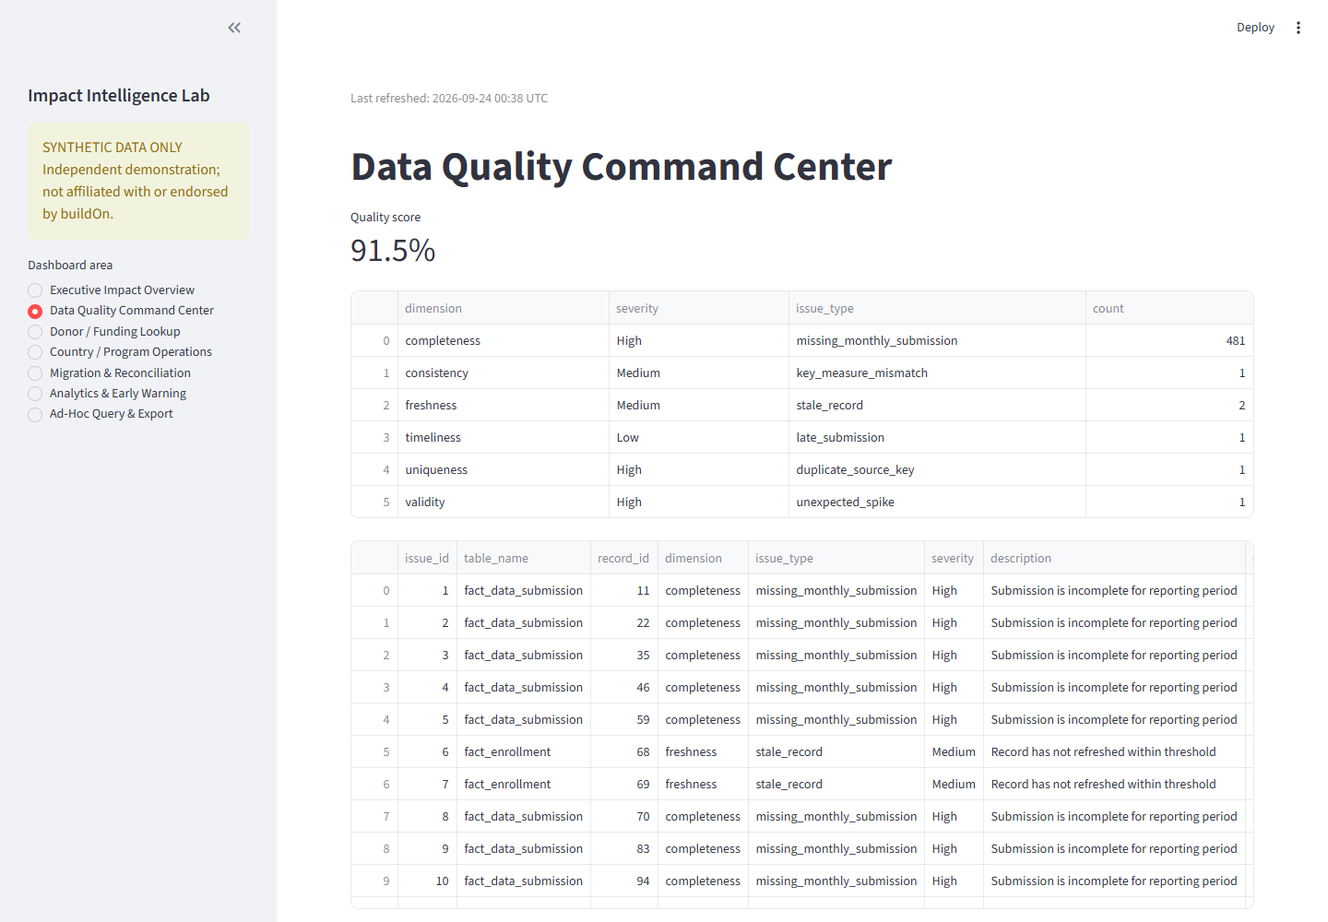
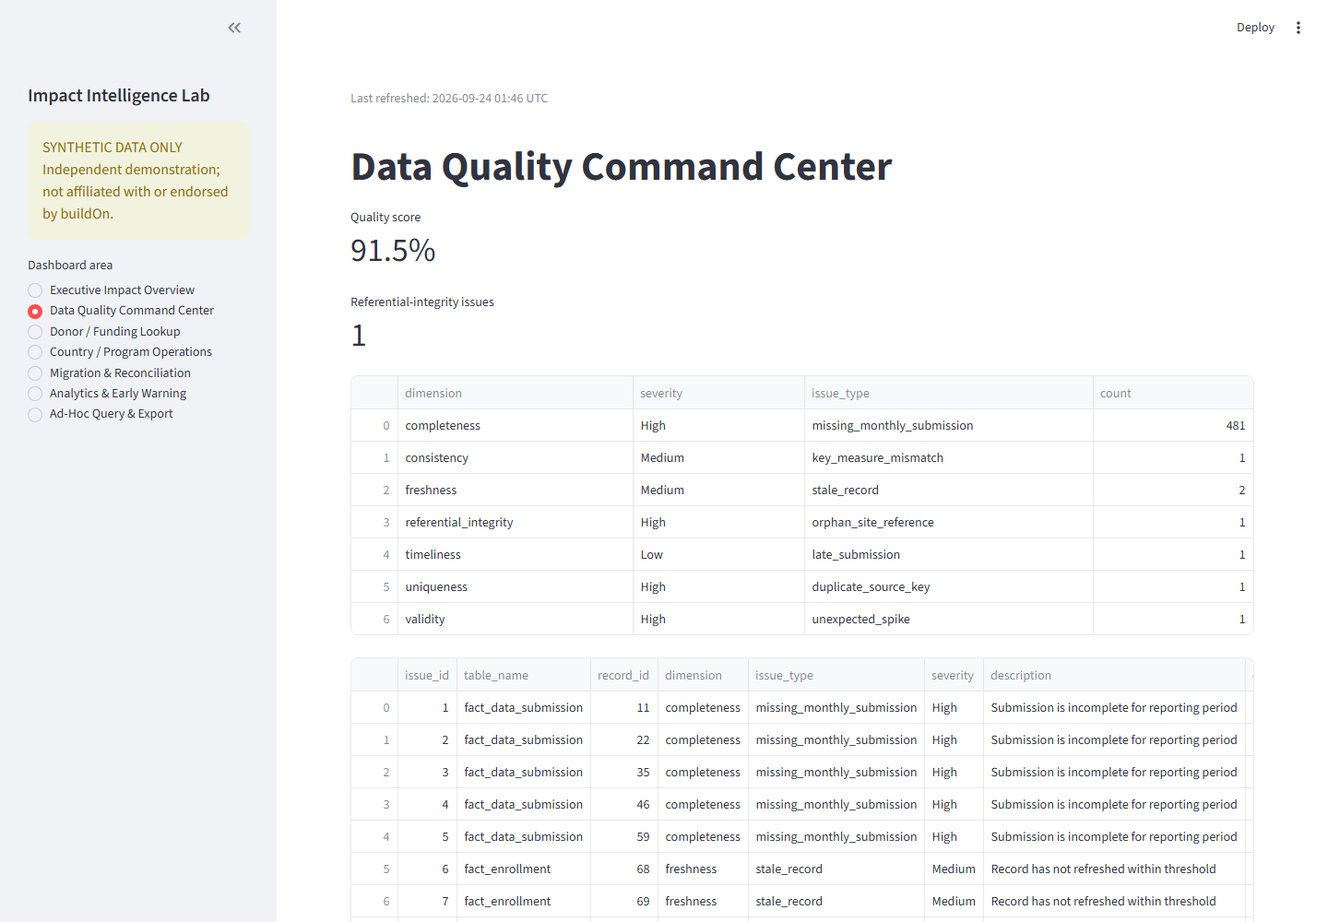
feat: add bounded forecast and quality evidence

diff --git a/app/dashboard.py b/app/dashboard.py
@@ -3,7 +3,7 @@ from pathlib import Path
 sys.path.insert(0,str(Path(__file__).resolve().parents[1]))
 from database.schema import engine
 from sqlalchemy import text
-from analytics.methods import trend
+from analytics.methods import trend,bounded_forecast
 st.set_page_config(page_title='Impact Intelligence Lab',page_icon='◎',layout='wide')
 st.sidebar.markdown('## Impact Intelligence Lab')
 st.sidebar.warning('SYNTHETIC DATA ONLY\nIndependent demonstration; not affiliated with or endorsed by buildOn.')
@@ -13,15 +13,17 @@ st.caption('Last refreshed: '+pd.Timestamp.utcnow().strftime('%Y-%m-%d %H:%M UTC
 if page=='Executive Impact Overview':
  st.title('Executive Impact Overview'); e=q('select * from fact_enrollment'); i=q('select * from fact_data_quality_issue'); a,b,c,d=st.columns(4); a.metric('Enrollment records',f'{len(e):,}'); b.metric('Enrolled participants',f'{e.enrolled.sum():,}'); c.metric('Quality issues',f'{len(i):,}'); d.metric('Latest period',q('select max(period_label) x from dim_reporting_period').iloc[0,0]); t=trend(e); st.plotly_chart(px.line(t,x='period_id',y='rolling_3',markers=True,title='3-period rolling enrollment trend'),use_container_width=True); st.info('Diagnostic indicator only: review movement alongside freshness and issue rates; no causal claim is made.')
 elif page=='Data Quality Command Center':
- st.title('Data Quality Command Center'); i=q('select * from fact_data_quality_issue'); st.metric('Quality score',f'{max(0,100-len(i)/5760*100):.1f}%'); st.dataframe(i.groupby(['dimension','severity','issue_type']).size().reset_index(name='count'),use_container_width=True); st.dataframe(i.head(100),use_container_width=True)
+ st.title('Data Quality Command Center'); i=q('select * from fact_data_quality_issue'); st.metric('Quality score',f'{max(0,100-len(i)/5760*100):.1f}%'); ref=i[i.dimension=='referential_integrity']; st.metric('Referential-integrity issues',len(ref)); st.dataframe(i.groupby(['dimension','severity','issue_type']).size().reset_index(name='count'),use_container_width=True); st.dataframe(i.head(100),use_container_width=True)
 elif page=='Donor / Funding Lookup':
- st.title('Donor / Funding Program Lookup'); countries=q('select country_code,country_name from dim_country'); programs=q('select program_id,program_name from dim_program'); cc=st.selectbox('Country',['All']+countries.country_code.tolist()); pp=st.selectbox('Program',['All']+programs.program_id.astype(str).tolist()); sql='select c.country_name,p.program_name,sum(e.enrolled) enrolled,avg(o.completion_rate) completion_rate,sum(cast(sub.is_stale as integer)) stale from fact_enrollment e join dim_site s on s.site_id=e.site_id join dim_country c on c.country_code=s.country_code join dim_program p on p.program_id=s.program_id join fact_program_outcomes o on o.record_id=e.record_id join fact_data_submission sub on sub.record_id=e.record_id where 1=1'; params={}; sql += '' if cc=='All' else ' and c.country_code=:country'; params['country']=cc if cc!='All' else None; sql += '' if pp=='All' else ' and p.program_id=:program_id'; params['program_id']=int(pp) if pp!='All' else None; params={k:v for k,v in params.items() if v is not None}; out=q(sql+' group by c.country_name,p.program_name',params); st.dataframe(out,use_container_width=True); st.download_button('Download lookup CSV',out.to_csv(index=False),'funding_lookup.csv')
+ st.title('Donor / Funding Program Lookup'); countries=q('select country_code,country_name from dim_country'); programs=q('select program_id,program_name from dim_program'); cc=st.selectbox('Country',['All']+countries.country_code.tolist()); pp=st.selectbox('Program',['All']+programs.program_id.astype(str).tolist()); sql='select c.country_name,p.program_name,sum(e.enrolled) enrolled,avg(o.completion_rate) completion_rate,sum(case when sub.is_stale then 1 else 0 end) stale from fact_enrollment e join dim_site s on s.site_id=e.site_id join dim_country c on c.country_code=s.country_code join dim_program p on p.program_id=s.program_id join fact_program_outcomes o on o.record_id=e.record_id join fact_data_submission sub on sub.record_id=e.record_id where 1=1'; params={}; sql += '' if cc=='All' else ' and c.country_code=:country'; params['country']=cc if cc!='All' else None; sql += '' if pp=='All' else ' and p.program_id=:program_id'; params['program_id']=int(pp) if pp!='All' else None; params={k:v for k,v in params.items() if v is not None}; out=q(sql+' group by c.country_name,p.program_name',params); st.dataframe(out,use_container_width=True); st.download_button('Download lookup CSV',out.to_csv(index=False),'funding_lookup.csv')
 elif page=='Country / Program Operations':
- st.title('Country / Program Operations'); x=q('select c.country_name,p.program_name,sum(e.enrolled) enrolled,avg(cast(sub.is_complete as integer)) completeness from fact_enrollment e join dim_site s on s.site_id=e.site_id join dim_country c on c.country_code=s.country_code join dim_program p on p.program_id=s.program_id join fact_data_submission sub on sub.record_id=e.record_id group by c.country_name,p.program_name'); st.dataframe(x,use_container_width=True); st.plotly_chart(px.bar(x,x='country_name',y='enrolled',color='program_name',title='Enrollment by country and program'),use_container_width=True)
+ st.title('Country / Program Operations'); x=q('select c.country_name,p.program_name,sum(e.enrolled) enrolled,avg(case when sub.is_complete then 1.0 else 0.0 end) completeness from fact_enrollment e join dim_site s on s.site_id=e.site_id join dim_country c on c.country_code=s.country_code join dim_program p on p.program_id=s.program_id join fact_data_submission sub on sub.record_id=e.record_id group by c.country_name,p.program_name'); st.dataframe(x,use_container_width=True); st.plotly_chart(px.bar(x,x='country_name',y='enrolled',color='program_name',title='Enrollment by country and program'),use_container_width=True)
 elif page=='Migration & Reconciliation':
  st.title('Migration & Reconciliation'); x=q('select match_status,count(*) rows from fact_migration_reconciliation group by match_status'); total=x['rows'].sum(); matched=x.loc[x.match_status=='matched','rows'].sum(); st.metric('Migration readiness score',f'{matched/max(total,1)*100:.1f}%'); st.plotly_chart(px.pie(x,names='match_status',values='rows',title='Migration readiness'),use_container_width=True); st.dataframe(q("select * from fact_migration_reconciliation where match_status<>'matched'"),use_container_width=True)
 elif page=='Analytics & Early Warning':
- st.title('Analytics & Early Warning'); e=q('select period_id,enrolled from fact_enrollment'); t=trend(e); st.plotly_chart(px.line(t,x='period_id',y=['enrolled','rolling_3'],title='Trend and rolling average'),use_container_width=True); st.warning('Diagnostic indicator: sustained movement should be reviewed with data-quality context before operational action.'); st.dataframe(t.tail(10),use_container_width=True)
+ st.title('Analytics & Early Warning'); e=q('select period_id,enrolled from fact_enrollment'); t=trend(e); st.plotly_chart(px.line(t,x='period_id',y=['enrolled','rolling_3'],title='Trend and rolling average'),use_container_width=True); fc=bounded_forecast(e); st.subheader('Illustrative one-period forecast'); st.caption(fc.get('label','Forecast unavailable')); st.metric('Forecast estimate',f"{fc['estimate']:,.0f}" if fc.get('available') else 'Unavailable');
+ if fc.get('available'): st.write(f"Period {fc['forecast_period_id']}: {fc['lower_bound']:,.0f}–{fc['upper_bound']:,.0f} bounded uncertainty band from {fc['observations']} recent observations.")
+ st.warning('Diagnostic indicator: sustained movement and forecast output require analyst review; they are not causal claims or commitments.'); st.dataframe(t.tail(10),use_container_width=True)
 else:
  st.title('Ad-Hoc Query & Export'); st.write('Safe preset exports for analyst workflows; arbitrary SQL is intentionally not exposed.');
  for kind,sql in [('enrollment','select * from fact_enrollment'),('quality','select * from fact_data_quality_issue'),('migration','select * from fact_migration_reconciliation')]: st.download_button(f'Download {kind} CSV',q(sql).to_csv(index=False),f'{kind}.csv')

diff --git a/api/main.py b/api/main.py
@@ -6,7 +6,7 @@ from fastapi import FastAPI
 from fastapi.responses import StreamingResponse,HTMLResponse
 from sqlalchemy import text
 from database.schema import engine
-from analytics.methods import trend,diagnostic
+from analytics.methods import trend,diagnostic,bounded_forecast
 app=FastAPI(title='Nonprofit Impact Intelligence Lab API',version='1.0')
 def q(sql,params=None): return pd.read_sql_query(text(sql),engine,params=params)
 @app.get('/health')
@@ -19,15 +19,15 @@ def summary():
 @app.get('/quality')
 def quality(): return q('select dimension,severity,issue_type,count(*) as issue_count from fact_data_quality_issue group by dimension,severity,issue_type order by issue_count desc').to_dict('records')
 @app.get('/lookup')
-def lookup(country=None,program_id=None):
- sql="select s.site_code,c.country_name,p.program_name,sum(e.enrolled) enrolled,avg(o.completion_rate) completion_rate,sum(cast(sub.is_stale as integer)) stale_submissions from fact_enrollment e join dim_site s on s.site_id=e.site_id join dim_country c on c.country_code=s.country_code join dim_program p on p.program_id=s.program_id join fact_program_outcomes o on o.record_id=e.record_id join fact_data_submission sub on sub.record_id=e.record_id where 1=1"
+def lookup(country: str | None = None,program_id: int | None = None):
+ sql="select s.site_code,c.country_name,p.program_name,sum(e.enrolled) enrolled,avg(o.completion_rate) completion_rate,sum(case when sub.is_stale then 1 else 0 end) stale_submissions from fact_enrollment e join dim_site s on s.site_id=e.site_id join dim_country c on c.country_code=s.country_code join dim_program p on p.program_id=s.program_id join fact_program_outcomes o on o.record_id=e.record_id join fact_data_submission sub on sub.record_id=e.record_id where 1=1"
  params={}
  if country: sql+=' and c.country_code=:country'; params['country']=country
  if program_id is not None: sql+=' and p.program_id=:program_id'; params['program_id']=program_id
  return q(sql+' group by s.site_code,c.country_name,p.program_name',params).to_dict('records')
 @app.get('/analytics')
 def analytics():
- t=trend(q('select period_id,enrolled from fact_enrollment')); ch=float(t['pct_change'].iloc[-1]) if len(t) else 0.0; stale=float(q('select avg(cast(is_stale as integer)) x from fact_data_submission').iloc[0,0]); rows=[{'period_id':int(r.period_id),'enrolled':float(r.enrolled),'rolling_3':float(r.rolling_3),'pct_change':float(r.pct_change)} for r in t.itertuples()]; return {'trend':rows,'diagnostic':diagnostic(ch,stale,.03),'stale_rate':stale}
+ t=trend(q('select period_id,enrolled from fact_enrollment')); ch=float(t['pct_change'].iloc[-1]) if len(t) else 0.0; stale=float(q('select avg(case when is_stale then 1.0 else 0.0 end) x from fact_data_submission').iloc[0,0]); rows=[{'period_id':int(r.period_id),'enrolled':float(r.enrolled),'rolling_3':float(r.rolling_3),'pct_change':float(r.pct_change)} for r in t.itertuples()]; return {'trend':rows,'diagnostic':diagnostic(ch,stale,.03),'stale_rate':stale,'forecast':bounded_forecast(q('select period_id,enrolled from fact_enrollment'))}
 @app.get('/migration')
 def migration():
  rows=q('select match_status,count(*) as rows from fact_migration_reconciliation group by match_status').to_dict('records')

diff --git a/scripts/create_presentation.py b/scripts/create_presentation.py
@@ -3,7 +3,7 @@ from pptx.util import Inches,Pt
 from pptx.dml.color import RGBColor
 from pathlib import Path
 out=Path(__file__).resolve().parents[1]/'assets'/'Nonprofit_Impact_Intelligence_Lab.pptx'; out.parent.mkdir(parents=True,exist_ok=True)
-slides=[('Problem','Nonprofit reporting is fragmented, late, and difficult to explain.'),('Synthetic data model','8 fictional countries | 6 programs | 240 sites | 24 periods | 23,740+ fact records'),('Architecture','Generator → quality engine → relational store → FastAPI → Streamlit → exports'),('Data quality','Completeness, validity, consistency, uniqueness, timeliness, referential integrity, freshness'),('Executive dashboard','Enrollment, outcomes, freshness, quality score, risks, latest period'),('Funding lookup','Safe filters by synthetic funding source, program, site, and country'),('Analytics / early warning','Rolling trends, IQR flags, missingness, bounded forecast, diagnostic indicators'),('Migration / reconciliation','Matched, mismatched, rejected rows with readiness context'),('Extension model','Planned / Extensible: Teams, Slack, WhatsApp, Telegram, Discord; not implemented'),('Limitations / next steps','Synthetic only; add auth, governance, configurable rules, and PostgreSQL tests for production') ]
+slides=[('Problem','Nonprofit reporting is fragmented, late, and difficult to explain.'),('Synthetic data model','8 fictional countries | 6 programs | 240 sites | 24 periods | 23,744+ fact records'),('Architecture','Generator → quality engine → relational store → FastAPI → Streamlit → exports'),('Data quality','Completeness, validity, consistency, uniqueness, timeliness, referential integrity, freshness'),('Executive dashboard','Enrollment, outcomes, freshness, quality score, risks, latest period'),('Funding lookup','Safe filters by synthetic funding source, program, site, and country'),('Analytics / early warning','Rolling trends, IQR flags, missingness, bounded forecast, diagnostic indicators'),('Migration / reconciliation','Matched, mismatched, rejected rows with readiness context'),('Extension model','Planned / Extensible: Teams, Slack, WhatsApp, Telegram, Discord; not implemented'),('Limitations / next steps','Synthetic only; add auth, governance, configurable rules, and PostgreSQL tests for production') ]
 r=Presentation(); r.slide_width=Inches(13.333); r.slide_height=Inches(7.5)
 for title,body in slides:
  s=r.slides.add_slide(r.slide_layouts[6]); bg=s.background.fill; bg.solid(); bg.fore_color.rgb=RGBColor(12,27,43)

diff --git a/scripts/generate_data.py b/scripts/generate_data.py
@@ -43,12 +43,13 @@ def gen():
    rid+=1
  for name,rows in [('fact_enrollment',enroll),('fact_program_outcomes',outcomes),('fact_site_progress',progress),('fact_data_submission',subs)]: conn.execute(metadata.tables[name].insert(),rows)
  funds=[]
- for i in range(1,97): funds.append(dict(record_id=i,funding_source_id=((i-1)%12)+1,program_id=((i-1)%6)+1,site_id=((i-1)%240)+1,amount=round(rng.uniform(10000,95000),2),allocation_status='linked' if i%13 else 'incomplete'))
+ for i in range(1,98): funds.append(dict(record_id=i,funding_source_id=((i-1)%12)+1,program_id=((i-1)%6)+1,site_id=((i-1)%240)+1 if i <= 96 else 999,amount=round(rng.uniform(10000,95000),2),allocation_status='linked' if i%13 else 'incomplete'))
  conn.execute(metadata.tables['fact_funding_allocation'].insert(),funds)
+ issues.append(dict(issue_id=len(issues)+1,table_name='fact_funding_allocation',record_id=97,dimension='referential_integrity',issue_type='orphan_site_reference',severity='High',description='Funding allocation references site_id 999, absent from dim_site; inspect source record 97.',detected_at=now))
  for i in range(1,25): conn.execute(metadata.tables['fact_data_refresh'].insert(),dict(refresh_id=i,table_name='fact_enrollment',refreshed_at=now-timedelta(hours=i),row_count=len(enroll)))
  for i in range(1,13): conn.execute(metadata.tables['fact_ad_hoc_request'].insert(),dict(request_id=i,request_type='funding_lookup' if i%2 else 'quality_extract',requested_at=now-timedelta(days=i),status='complete'))
  mig=[]
- for i in range(1,121): mig.append(dict(reconciliation_id=i,entity_type='site',source_key=f"SRC-{i:03d}",target_key=f"SITE-{((i-1)%48)+1:03d}",match_status='matched' if i%9==0 else ('mismatch' if i%3==0 else 'rejected'),difference_reason='' if i%9==0 else 'Code or measure differs'))
+ for i in range(1,121): mig.append(dict(reconciliation_id=i,entity_type='site',source_key=f"SRC-{i:03d}",target_key=f"SITE-{((i-1)%240)+1:03d}",match_status='matched' if i%9==0 else ('mismatch' if i%3==0 else 'rejected'),difference_reason='' if i%9==0 else 'Code or measure differs'))
  conn.execute(metadata.tables['fact_migration_reconciliation'].insert(),mig)
  conn.execute(metadata.tables['fact_data_quality_issue'].insert(),issues)
  trans.commit(); conn.close()

diff --git a/analytics/methods.py b/analytics/methods.py
@@ -4,6 +4,15 @@ def iqr_flags(values):
  return (s<q1-1.5*i)|(s>q3+1.5*i)
 def trend(df,value='enrolled'):
  x=df.groupby('period_id',as_index=False)[value].mean().sort_values('period_id'); x['rolling_3']=x[value].rolling(3,min_periods=1).mean(); x['pct_change']=x[value].pct_change().replace([np.inf,-np.inf],np.nan).fillna(0); return x
+def bounded_forecast(df,value='enrolled',recent=6,min_observations=4):
+    """Illustrative one-period OLS trend with a 95% residual uncertainty band."""
+    x=df.groupby('period_id',as_index=False)[value].mean().dropna().sort_values('period_id').tail(recent)
+    if len(x)<min_observations: return {'available':False,'reason':f'Requires at least {min_observations} observations.'}
+    xs=x['period_id'].to_numpy(dtype=float); ys=x[value].to_numpy(dtype=float)
+    slope,intercept=np.polyfit(xs,ys,1); next_period=int(xs[-1]+1); estimate=float(intercept+slope*next_period)
+    residuals=ys-(intercept+slope*xs); residual_std=float(np.std(residuals,ddof=1)) if len(residuals)>1 else 0.0
+    margin=max(1.96*residual_std,abs(estimate)*0.05,1.0)
+    return {'available':True,'forecast_period_id':next_period,'estimate':round(max(0,estimate),2),'lower_bound':round(max(0,estimate-margin),2),'upper_bound':round(max(0,estimate+margin),2),'observations':len(x),'method':'OLS linear trend on last six observations; 95% residual band with 5% minimum margin','label':'Illustrative diagnostic forecast; requires analyst review.'}
 def diagnostic(change,stale_rate,duplicate_rate):
  if change < -.1 and stale_rate > .15: return 'Possible reporting delay: metric drop coincides with stale submissions; requires analyst review.'
  if change > .2 and duplicate_rate > .02: return 'Possible data-quality issue: spike coincides with duplicate increase; requires analyst review.'

diff --git a/tests/test_generator.py b/tests/test_generator.py
@@ -7,9 +7,11 @@ def test_fact_volume_and_seed():
  assert pd.read_sql_query('select count(*) n from fact_data_quality_issue',engine).iloc[0,0]>0
 def test_quality_dimensions_and_severities():
     rows=pd.read_sql_query('select distinct dimension,severity from fact_data_quality_issue',engine)
-    assert {'completeness','validity','consistency','uniqueness','timeliness','freshness'} <= set(rows.dimension)
+    assert {'completeness','validity','consistency','uniqueness','timeliness','freshness','referential_integrity'} <= set(rows.dimension)
     assert {'Low','Medium','High'} <= set(rows.severity)
 
-def test_relationship_integrity():
-    x=pd.read_sql_query('select count(*) n from fact_enrollment e join dim_site s on s.site_id=e.site_id join dim_reporting_period p on p.period_id=e.period_id',engine)
-    assert x.iloc[0,0]>0
+def test_referential_integrity_issue_is_a_real_orphan():
+    row=pd.read_sql_query("select * from fact_funding_allocation where record_id=97",engine).iloc[0]
+    assert pd.read_sql_query(f"select count(*) n from dim_site where site_id={int(row.site_id)}",engine).iloc[0,0] == 0
+    issue=pd.read_sql_query("select * from fact_data_quality_issue where dimension='referential_integrity' and record_id=97",engine)
+    assert len(issue)==1 and issue.iloc[0].issue_type=='orphan_site_reference'

diff --git a/tests/test_analytics.py b/tests/test_analytics.py
@@ -1,5 +1,9 @@
 import pandas as pd
-from analytics.methods import iqr_flags,trend,diagnostic
+from analytics.methods import iqr_flags,trend,diagnostic,bounded_forecast
 def test_iqr_flags_detects_spike(): assert bool(iqr_flags([1,1,1,1,20]).iloc[-1])
 def test_trend_and_diagnostic():
  x=trend(pd.DataFrame({'period_id':[1,2,3],'enrolled':[10,8,6]})); assert 'rolling_3' in x and diagnostic(-.2,.3,.01).startswith('Possible reporting')
+def test_bounded_forecast_returns_interval_and_requires_minimum():
+ x=bounded_forecast(pd.DataFrame({'period_id':[1,2,3,4,5,6],'enrolled':[10,12,14,16,18,20]}))
+ assert x['available'] and x['lower_bound'] <= x['estimate'] <= x['upper_bound'] and x['observations']==6
+ assert bounded_forecast(pd.DataFrame({'period_id':[1,2,3],'enrolled':[10,12,14]}))['available'] is False

diff --git a/tests/test_api.py b/tests/test_api.py
@@ -13,3 +13,8 @@ def test_migration_reports_all_statuses():
     assert {'matched','mismatch','rejected'} <= statuses
     assert payload['total_rows']==120
     assert payload['readiness_score']==10.8
+
+def test_analytics_exposes_bounded_forecast():
+    forecast=client.get('/analytics').json()['forecast']
+    assert forecast['available'] is True
+    assert forecast['lower_bound'] <= forecast['estimate'] <= forecast['upper_bound']

diff --git a/README.md b/README.md
@@ -13,6 +13,7 @@ An independent, synthetic demonstration of nonprofit impact-data quality, report
 | Streamlit dashboard (7 pages) | Implemented |
 | Data-quality dimensions and issue drill-down | Implemented |
 | Trend, IQR anomaly, diagnostic indicators | Implemented |
+| Bounded illustrative forecast with uncertainty band | Implemented |
 | PDF/CSV/XLSX reports | Implemented |
 | PostgreSQL Docker environment | Implemented; SQLite fallback is default |
 | Teams/Slack/WhatsApp/Telegram/Discord | Planned / Extensible; not connected |
@@ -23,7 +24,7 @@ An independent, synthetic demonstration of nonprofit impact-data quality, report
 python -m venv .venv
 .venv\Scripts\activate  # Windows
 pip install -r requirements.txt
-# PostgreSQL-backed validation (Docker Desktop required)
+# PostgreSQL is bound to localhost only. Trust authentication is for this isolated local demo and ephemeral CI service; it is not production configuration.
 docker compose up -d
 $env:DATABASE_URL='postgresql+psycopg2://impact@localhost:5432/impact_lab'
 python scripts/generate_data.py
@@ -50,11 +51,30 @@ flowchart LR
 
 ## Dashboard gallery
 
-Screenshots are in `assets/screenshots/` and are generated from the running app.
+Screenshots are generated from the running app and show the main portfolio workflows.
+
+| Executive Impact Overview | Data Quality Command Center |
+|---|---|
+| ![Executive Impact Overview](assets/screenshots/executive-impact-overview.png) | ![Data Quality Command Center](assets/screenshots/data-quality-command-center.png) |
+
+| Donor / Funding Lookup | Analytics & Early Warning |
+|---|---|
+| ![Donor / Funding Lookup](assets/screenshots/donor---funding-lookup.png) | ![Analytics & Early Warning](assets/screenshots/analytics-and-early-warning.png) |
+
+| Migration & Reconciliation |
+|---|
+| ![Migration & Reconciliation](assets/screenshots/migration-and-reconciliation.png) |
+
+## What this demonstrates
+
+- Nonprofit technology leaders: a practical path from fragmented reporting to an auditable operating view.
+- Data and analytics leaders: deterministic quality rules, transparent diagnostics, bounded forecasting, and PostgreSQL-ready workflows.
+- Consulting buyers: a concrete demonstration of discovery, migration reconciliation, donor/funding lookup, and exportable evidence.
+- Hiring managers: end-to-end delivery across data modeling, Python APIs, dashboards, testing, and public repository safety.
 
 ## Data and methods
 
-Eight fictional countries, six programs, 48 sites, 24 monthly periods, synthetic funding sources, and deliberately injected defects are generated deterministically. See [DATA_MODEL.md](DATA_MODEL.md), [DATA_QUALITY_RULES.md](DATA_QUALITY_RULES.md), and [ANALYTICS_METHODS.md](ANALYTICS_METHODS.md).
+Eight fictional countries, six programs, 240 sites, 24 monthly periods, synthetic funding sources, and deliberately injected defects are generated deterministically. See [DATA_MODEL.md](DATA_MODEL.md), [DATA_QUALITY_RULES.md](DATA_QUALITY_RULES.md), and [ANALYTICS_METHODS.md](ANALYTICS_METHODS.md).
 
 Analytics are diagnostic indicators, not causal conclusions. Forecasts are intentionally bounded and should not be treated as commitments.
 

diff --git a/ANALYTICS_METHODS.md b/ANALYTICS_METHODS.md
@@ -4,7 +4,7 @@
 - Period-over-period: `(current-prior)/prior`, guarded for zero denominators.
 - Anomaly detection: IQR fences on monthly site metrics.
 - Missingness: submission completeness by period.
-- Forecast: linear trend on the last six observations with a wide uncertainty band; only shown when at least four points exist.
-- Diagnostics: rule-based associations such as metric drop + stale submissions = likely reporting delay, spike + duplicates = likely data-quality issue, and sustained movement + healthy quality = operational signal requiring review.
+- Forecast: if at least four period observations exist, fit ordinary least squares to the last six period means (or fewer when only four or five exist), project one period ahead, and report a non-negative estimate plus a bounded interval using 1.96 residual standard deviations with a 5% minimum margin. This is an illustrative diagnostic forecast, not a causal model, commitment, or guarantee; API `/analytics` and the dashboard expose the estimate and bounds.
+- Diagnostics: rule-based associations such as metric drop + stale submissions = possible reporting delay, spike + duplicates = possible data-quality issue, and sustained movement + healthy quality = operational signal requiring review.
 
 These are diagnostic indicators, not causal claims.

diff --git a/DATA_QUALITY_RULES.md b/DATA_QUALITY_RULES.md
@@ -2,4 +2,8 @@
 
 Dimensions: completeness, validity, consistency, uniqueness, timeliness, referential integrity, freshness. Rules deliberately identify missing enrollment values, duplicate record keys, late submissions, stale periods, code inconsistencies, orphan-like links, funding gaps, and migration mismatches. Severity is Critical/High/Medium/Low.
 
+The deterministic generator includes a referential-integrity scenario: funding allocation record 97 points to site_id 999, which is absent from dim_site. The issue ledger records the affected source record, and the Data Quality Command Center surfaces it under `referential_integrity / orphan_site_reference` for drill-down.
+
 The score is a transparent weighted count of passed checks; it is not a certification.
+
+PostgreSQL Compose uses trust authentication only for the isolated local demonstration and ephemeral CI service. It is not appropriate for production; production deployments require authenticated, network-restricted database configuration.
